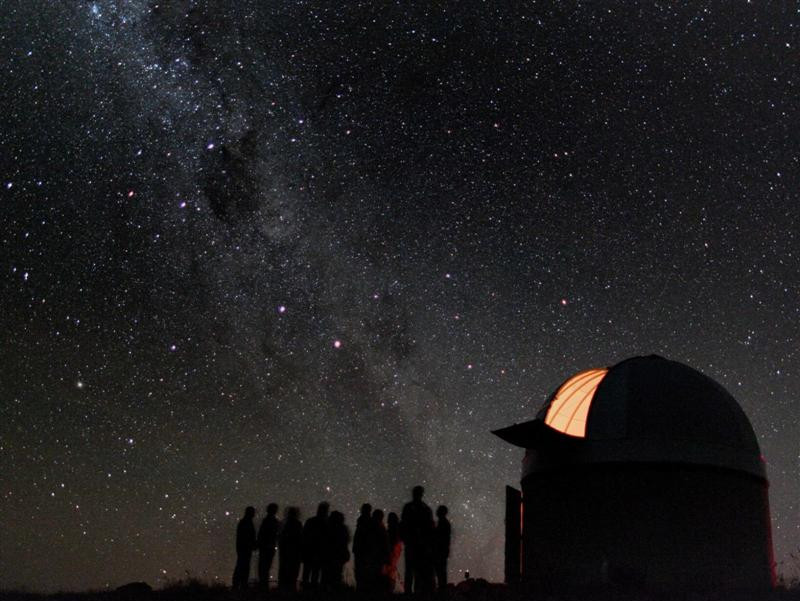
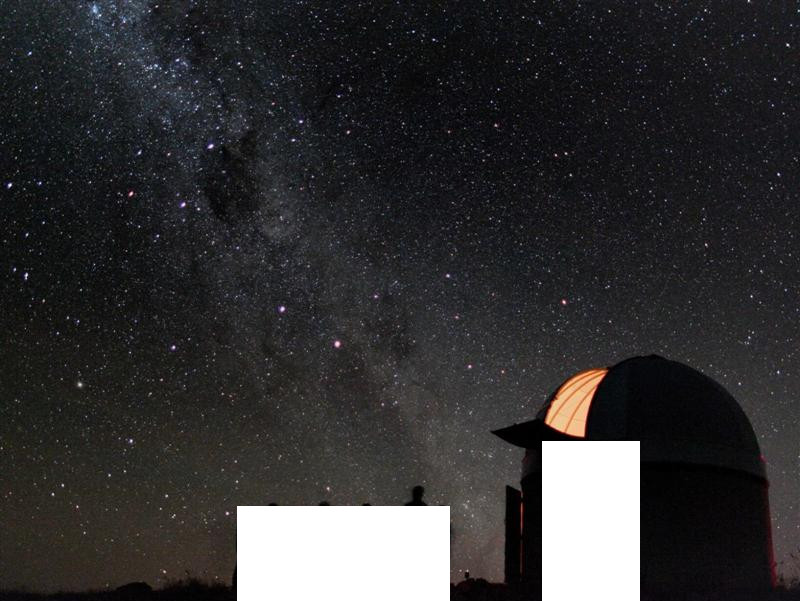
Observing targets & feedback when rain in dome

Changed region(s): [[0.2812, 0.8386, 0.5625, 1.0], [0.6562, 0.7188, 0.8125, 1.0]]

diff --git a/src/states/CloseTheDome.js b/src/states/CloseTheDome.js
@@ -1,10 +1,19 @@
 import BigMessage from 'objects/BigMessage'
 import Cloud from 'objects/Cloud'
+import Raindrop from 'objects/Raindrop'
+import Dismay from 'objects/Dismay'
 
 class CloseTheDome extends Phaser.State {
     create() {
         this.add.sprite(0, 0, 'dome')
         this.introText()
+
+        // make the people and the dome
+        this.people = this.add.sprite(237, 506, 'people-cutout')
+        this.dome = this.add.sprite(542, 441, 'dome-cutout')
+        this.physics.arcade.enable([this.people, this.dome])
+        this.people.body.immovable = true
+        this.dome.body.immovable = true
 
         // make the umbrellas
         this.umbrellas = this.add.group()
@@ -22,23 +31,44 @@ class CloseTheDome extends Phaser.State {
         this.closedDome.anchor.set(1)
         this.closedDome.alpha = 0
 
+        // make a group to hold the raindrops
+        this.raindrops = this.add.group()
+
         // register spacebar presses
         let spacekey = this.input.keyboard.addKey(Phaser.Keyboard.SPACEBAR)
         spacekey.onDown.add(this.closeUp, this)
         spacekey.onUp.add(this.openUp, this)
 
         // start adding clouds
+        this.clouds = this.add.group()
         this.addCloud()
 
-        // prepare for raindrops
-        this.physics.startSystem(Phaser.Physics.ARCADE)
+        // add the target list
+        let style1 = { font: "bold 14pt Arial", fill: "#fff", align: "left" }
+        this.add.text(10, 10, "TARGET LIST:", style1)
+        this.targetNumber = 1
+        this.addTarget()
+        this.currentTargetProgress = 0
+    }
+
+    addTarget() {
+        if (this.done) { return }
+        if (this.targetNumber == 8) {
+            this.wellDoneText()
+            this.done = true
+        }
+        let style2 = { font: "bold 20pt Arial", fill: "#bbb", align: "left" }
+        this.currentTarget = this.randomTarget()
+        this.add.text(30, 40*this.targetNumber, this.currentTarget, style2)
+        this.targetNumber++
     }
 
     addCloud() {
         let cloudHeight = this.rnd.between(0, 150)
-        let cloudSize = this.rnd.realInRange(0.5, 1.5)
-        let cloudSpeed = this.rnd.between(1, 5)
-        new Cloud(this.game, -200, cloudHeight, cloudSize, cloudSpeed)
+        let cloudSize = this.rnd.realInRange(1.3, 1/1.3)
+        let cloudSpeed = this.rnd.between(2, 5)
+        let cloud = new Cloud(this.game, -200, cloudHeight, cloudSize, cloudSpeed)
+        this.clouds.add(cloud)
 
         let nextCloud = this.rnd.between(1000, 4000)
         this.time.events.add(nextCloud, this.addCloud, this)
@@ -46,10 +76,6 @@ class CloseTheDome extends Phaser.State {
 
     introText() {
         new BigMessage(this.game, "KEEP THE\nDOME DRY!")
-    }
-
-    wellDoneText() {
-        new BigMessage(this.game, "FLAWLESS\nOBSERVING")
     }
 
     closeUp() {
@@ -64,6 +90,92 @@ class CloseTheDome extends Phaser.State {
         let y = this.umbrellas.defaulty
         this.add.tween(this.umbrellas).to({alpha: 0, y: y}, 200, linear, true)
         this.add.tween(this.closedDome).to({alpha: 0}, 200, linear, true)
+    }
+
+    areUmbrellasUp() {
+        return (this.umbrellas.alpha > 0.5)
+    }
+
+    update() {
+        this.physics.arcade.overlap(this.raindrops, this.people, this.rain_on_people, null, this)
+        this.physics.arcade.overlap(this.raindrops, this.dome, this.rain_in_dome, null, this)
+        if (!this.areUmbrellasUp()) {
+            this.currentTargetProgress++
+        }
+        if (this.currentTargetProgress > 150 && !this.done) {
+            this.addTarget()
+            this.currentTargetProgress = 0
+        }
+    }
+
+    rain_on_people(people, raindrop) {
+        let options = ['dismay', 'surprise', 'shock']
+        let dismayType = this.game.rnd.pick(options)
+        if (!this.areUmbrellasUp()) {
+            new Dismay(this.game, raindrop.x, raindrop.y, dismayType)
+        }
+        raindrop.kill()
+    }
+
+    rain_in_dome(dome, raindrop) {
+        let options = ['dismay', 'surprise', 'shock']
+        let dismayType = this.game.rnd.pick(options)
+        if (!this.areUmbrellasUp()) {
+            new Dismay(this.game, raindrop.x, raindrop.y, dismayType)
+        }
+        raindrop.kill()
+    }
+
+    randomTarget() {
+        let rand = this.game.rnd.between(0, 99)
+        if (rand < 30) { return this.randomKeplerName() }
+        if (rand < 60) { return this.randomSimpleCatalogue() }
+        if (rand < 90) { return this.randomStar() }
+        if (rand < 100) { return this.randomSNe() }
+    }
+
+    randomKeplerName() {
+        let prefix = "Kepler"
+        let number = this.game.rnd.between(1, 3000).toString()
+        let postfixes = ["A", "B", "b", "c", "d", "e", "f"]
+        let postfix = this.game.rnd.pick(postfixes)
+        return prefix + " " + number + postfix
+    }
+
+    randomSimpleCatalogue() {
+        let prefixes = ["NGC", "KOI", "Abell", "Messier"]
+        let prefix = this.game.rnd.pick(prefixes)
+        let number = this.game.rnd.between(1, 5000).toString()
+        return prefix + " " + number
+    }
+
+    randomSNe() {
+        let prefix = "SN"
+        let year = this.game.rnd.between(1960, 2020).toString()
+        let letters = ["a", "b", "c"]
+        let letter = this.game.rnd.pick(letters)
+        return prefix + " " + year + letter
+    }
+
+    randomStar() {
+        let greekLetters = ["α", "β", "γ", "δ", "ϵ"]
+        let constellations = ["Andromedae", "Boötis", "Camelopardalis",
+                              "Cancri", "Carinae", "Ceti", "Crucis",
+                              "Doradus", "Draconis", "Eridani", "Hydrae",
+                              "Leonis", "Lyrae", "Muscae", "Orionis",
+                              "Persei", "Scuti", "Tucanae", "Velorum"]
+        let letter = this.game.rnd.pick(greekLetters)
+        let constellation = this.game.rnd.pick(constellations)
+        return letter + " " + constellation
+    }
+
+    wellDoneText() {
+        new BigMessage(this.game, "CAN'T WAIT\nTO REDUCE\nTHIS")
+        this.time.events.add(2000, this.nextStage, this)
+    }
+
+    nextStage() {
+
     }
 }
 

diff --git a/src/states/Preload.js b/src/states/Preload.js
@@ -10,6 +10,9 @@ class Preload extends Phaser.State {
         //	Load the rest of the assets our game needs.
 		this.load.image('titleLogo', 'assets/title-logo.png')
 		this.load.image('pressSpace', 'assets/press-space.png')
+		this.load.audio('buzzer', 'assets/audio/buzzer.mp3')
+		this.load.audio('titleMusic', 'assets/audio/chibi-ninja.mp3')
+
 		this.load.image('deepfield', 'assets/find-galaxies/deepfield.jpg')
         this.load.image('gal1', 'assets/find-galaxies/gal1.png')
         this.load.image('gal2', 'assets/find-galaxies/gal2.png')
@@ -18,14 +21,22 @@ class Preload extends Phaser.State {
         this.load.image('gal5', 'assets/find-galaxies/gal5.png')
         this.load.image('gal6', 'assets/find-galaxies/gal6.png')
 		this.load.image('nope', 'assets/find-galaxies/nope.png')
+
+		this.load.image('macbook', 'assets/write-a-proposal/macbook-pro.jpg')
+
 		this.load.image('dome', 'assets/close-the-dome/background.jpg')
 		this.load.image('dome-closed', 'assets/close-the-dome/closed.jpg')
 		this.load.image('umbrella', 'assets/close-the-dome/umbrella.png')
 		this.load.image('cloud', 'assets/close-the-dome/cloud.png')
 		this.load.image('raindrop', 'assets/close-the-dome/raindrop.png')
-		this.load.image('macbook', 'assets/write-a-proposal/macbook-pro.jpg')
-		this.load.audio('buzzer', 'assets/audio/buzzer.mp3')
-		this.load.audio('titleMusic', 'assets/audio/chibi-ninja.mp3')
+		this.load.image('people-cutout', 'assets/close-the-dome/people.jpg')
+		this.load.image('dome-cutout', 'assets/close-the-dome/dome.jpg')
+		this.load.image('dismay', 'assets/close-the-dome/dismay.png')
+		this.load.image('shock', 'assets/close-the-dome/shock.png')
+		this.load.image('surprise', 'assets/close-the-dome/surprise.png')
+
+		// prepare for physics!
+		this.game.physics.startSystem(Phaser.Physics.ARCADE)
 	}
 
 	create() {

diff --git a/src/states/WriteAProposal.js b/src/states/WriteAProposal.js
@@ -9,7 +9,7 @@ class WriteAProposal extends Phaser.State {
         this.proposalText = [
             "Multiple stellar populations at the centimetre-per-second level",
             "",
-            "Lorem ipsum dolor sit amet, consectetur adipisicing elit, sed do eiusmod tempor incididunt ut labore et dolore magna aliqua. Ut enim ad minim veniam, quis nostrud exercitation ullamco laboris nisi ut aliquip ex ea commodo consequat. Duis aute irure dolor in reprehenderit in voluptate velit esse cillum dolore eu fugiat nulla pariatur. Excepteur sint occaecat cupidatat non proident, sunt in culpa qui officia deserunt mollit anim id est laborum."
+            "Obtaining a stable transiting planet plays a crucial role in the scatter and evolution of mass distribution. In this paper, we extend the description for the distribution of the dark matter (DM) time scale and measure the separation between interferometric, full-polarisation observations. We first provide an overview of sub-Saturns (0.18MJ < Mp < 0.3MJ) and super-Neptunes (0.05MJ < Mp < 0.18MJ). This approach is unable to describe haloes with larger spin or with fewer filaments."
         ]
 
         // load in first line of text

diff --git a/src/objects/Raindrop.js b/src/objects/Raindrop.js
@@ -2,15 +2,24 @@ class Raindrop extends Phaser.Sprite {
     constructor(game, x, y) {
         super(game, x, y, 'raindrop')
         this.anchor.set(0.5)
-
-        game.physics.enable(this, Phaser.Physics.ARCADE)
+        game.physics.arcade.enable(this)
         this.body.gravity.y = 2000
-
         game.stage.addChild(this)
+        this._game = game
+        this.state = game.state.states.CloseTheDome
+        this.state.raindrops.add(this)
+    }
+
+    handler() {
+        console.log("hit - handler")
+    }
+
+    process() {
+        console.log("hit - process")
     }
 
     update() {
-        if (this.y > 600) {
+        if (this.y > 600 || this.state.done) {
             this.destroy()
         }
     }

diff --git a/src/objects/Dismay.js b/src/objects/Dismay.js
@@ -1,0 +1,19 @@
+class Dismay extends Phaser.Sprite {
+    constructor(game, x, y, type) {
+        super(game, x, y, type)
+        this.anchor.set(0.5)
+        this.addTween()
+        game.stage.addChild(this)
+    }
+
+    addTween() {
+        let linear = Phaser.Easing.Linear.None
+        this.game.add.tween(this).to({alpha: 0}, 400, linear, true)
+        this.game.add.tween(this.scale).to({x: 1.5, y:1.5}, 400, linear, true)
+        this.game.time.events.add(2000, this.destroy, this)
+        let dy = this.game.rnd.between(0, 20)
+        this.game.add.tween(this).to({y: this.y - dy}, 400, linear, true)
+    }
+}
+
+export default Dismay

diff --git a/src/objects/Cloud.js b/src/objects/Cloud.js
@@ -12,21 +12,14 @@ class Cloud extends Phaser.Sprite {
 
     update() {
         this.x = this.x + this._speed
-        this.rain()
-
-        if (this.x > 1200) {
-            this.destroy()
-        }
+        if (this.game.rnd.between(0, 10) < 8) { this.rain() }
+        if (this.x > 1200) { this.destroy() }
     }
 
     rain() {
-        let width = 250 * this._scale
-        let x = this.x + this.game.rnd.between(-width/2, +width/2)
+        let width = this.width * 0.8
+        let x = this.x + this._speed + this.game.rnd.between(-width/2, width/2)
         new Raindrop(this.game, x, this.y)
-    }
-
-    leftScreen() {
-
     }
 }
 

diff --git a/src/states/MainMenu.js b/src/states/MainMenu.js
@@ -32,7 +32,11 @@ class MainMenu extends Phaser.State {
     }
 
     thatHadBetterBeSpacebar(key) {
-        if (key.code !== "Space") {
+        console.log(key.code)
+        if (key.code !== "Space"
+            && key.code !== "F5"
+            && key.code !== "F11"
+            && key.code !== "F12") {
             let text = new BigMessage(this.game, "NO, PRESS\nSPACE!")
             this.buzz.play()
         }

diff --git a/src/states/FindGalaxies.js b/src/states/FindGalaxies.js
@@ -45,7 +45,7 @@ class FindGalaxies extends Phaser.State {
         ]
 
         // Move the pointing once every second
-        this.physics.enable(this.pointing, Phaser.Physics.ARCADE)
+        this.physics.arcade.enable(this.pointing)
         this.pointing.timer = this.time.create()
         this.pointing.timer.loop(1000, this.changePointing, this)
         this.pointing.timer.start()

diff --git a/static/styles/main.css b/static/styles/main.css
@@ -3,6 +3,7 @@ html {
   height: 100%;
   margin: 0px;
   padding: 0px;
+  background-color: #383D3D
 }
 
 body {
